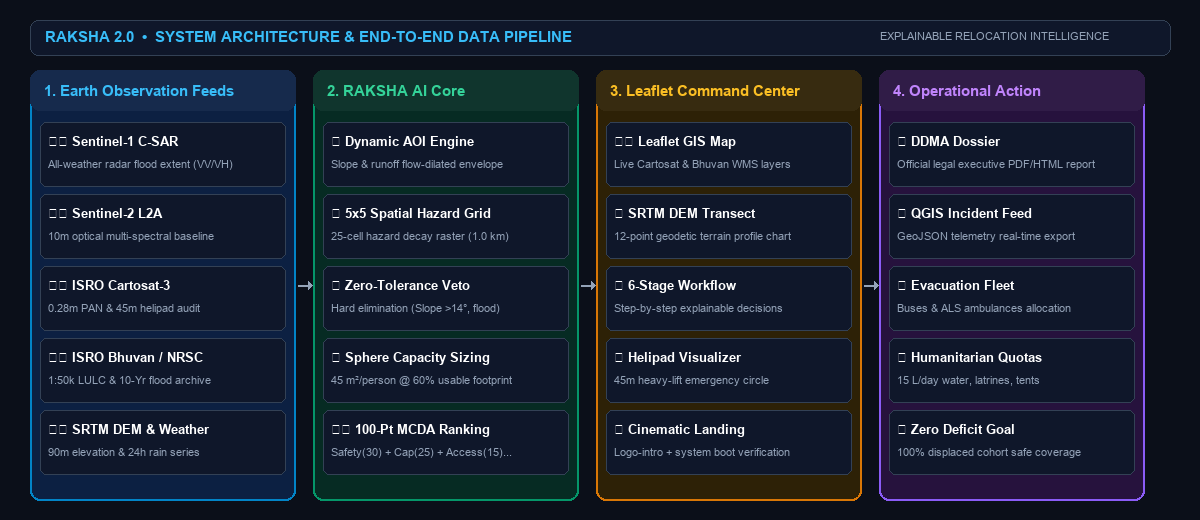
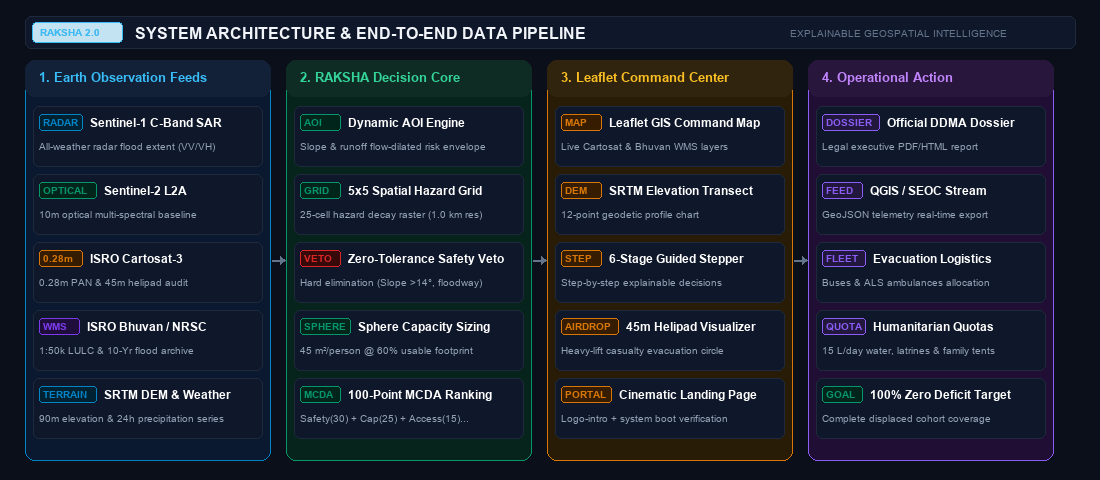
fix(docs): remove redundant duplicate table and eliminate emoji font glyph boxes in architecture diagram

Changed region(s): [[0.0, 0.0312, 0.9582, 0.9688]]

diff --git a/README.md b/README.md
@@ -19,14 +19,6 @@
   <img src="assets/architecture_diagram.png" alt="RAKSHA 2.0 System Architecture & End-to-End Data Pipeline" width="100%" />
 </p>
 
-| 🛰 1. Multi-Sensor Ingestion | 🧠 2. RAKSHA Decision Core | 💻 3. Command Center (UI) | 📋 4. Operational Action |
-| :--- | :--- | :--- | :--- |
-| **Sentinel-1 SAR:** All-Weather Radar Flood Extent | **Dynamic AOI:** Slope & runoff flow-dilated boundary | **Leaflet GIS Map:** Live Cartosat & Bhuvan WMS | **DDMA Dossier:** Standalone PDF/HTML legal report |
-| **Sentinel-2 L2A:** 10m Optical Multi-Spectral | **5×5 Hazard Grid:** 25-cell runoff decay raster (1 km) | **DEM Transect:** 12-point geodetic profile chart | **QGIS / SEOC Feed:** Real-time GeoJSON export |
-| **ISRO Cartosat-3:** 0.28m PAN & 45m Helipad Audit | **Hard Veto:** Slope 2°–14° & floodway elimination | **6-Stage Stepper:** Step-by-step explainable UI | **Evacuation Fleet:** Buses & ALS ambulances |
-| **ISRO Bhuvan:** 1:50k LULC & 10-Yr Flood Archive | **Sphere Sizing:** 45 m²/person @ 60% usable footprint | **Helipad HUD:** 45m emergency evacuation circle | **Humanitarian:** 15 L/day water, latrines, tents |
-| **SRTM DEM & Weather:** 90m elevation & 24h rain | **100-pt MCDA:** Safety-First multi-criteria rank | **Cinematic Landing:** Intro + system boot audit | **Zero-Deficit:** 100% displaced cohort safe coverage |
-
 ---
 
 ## ⚡ Quick Start (1-Minute Run)
